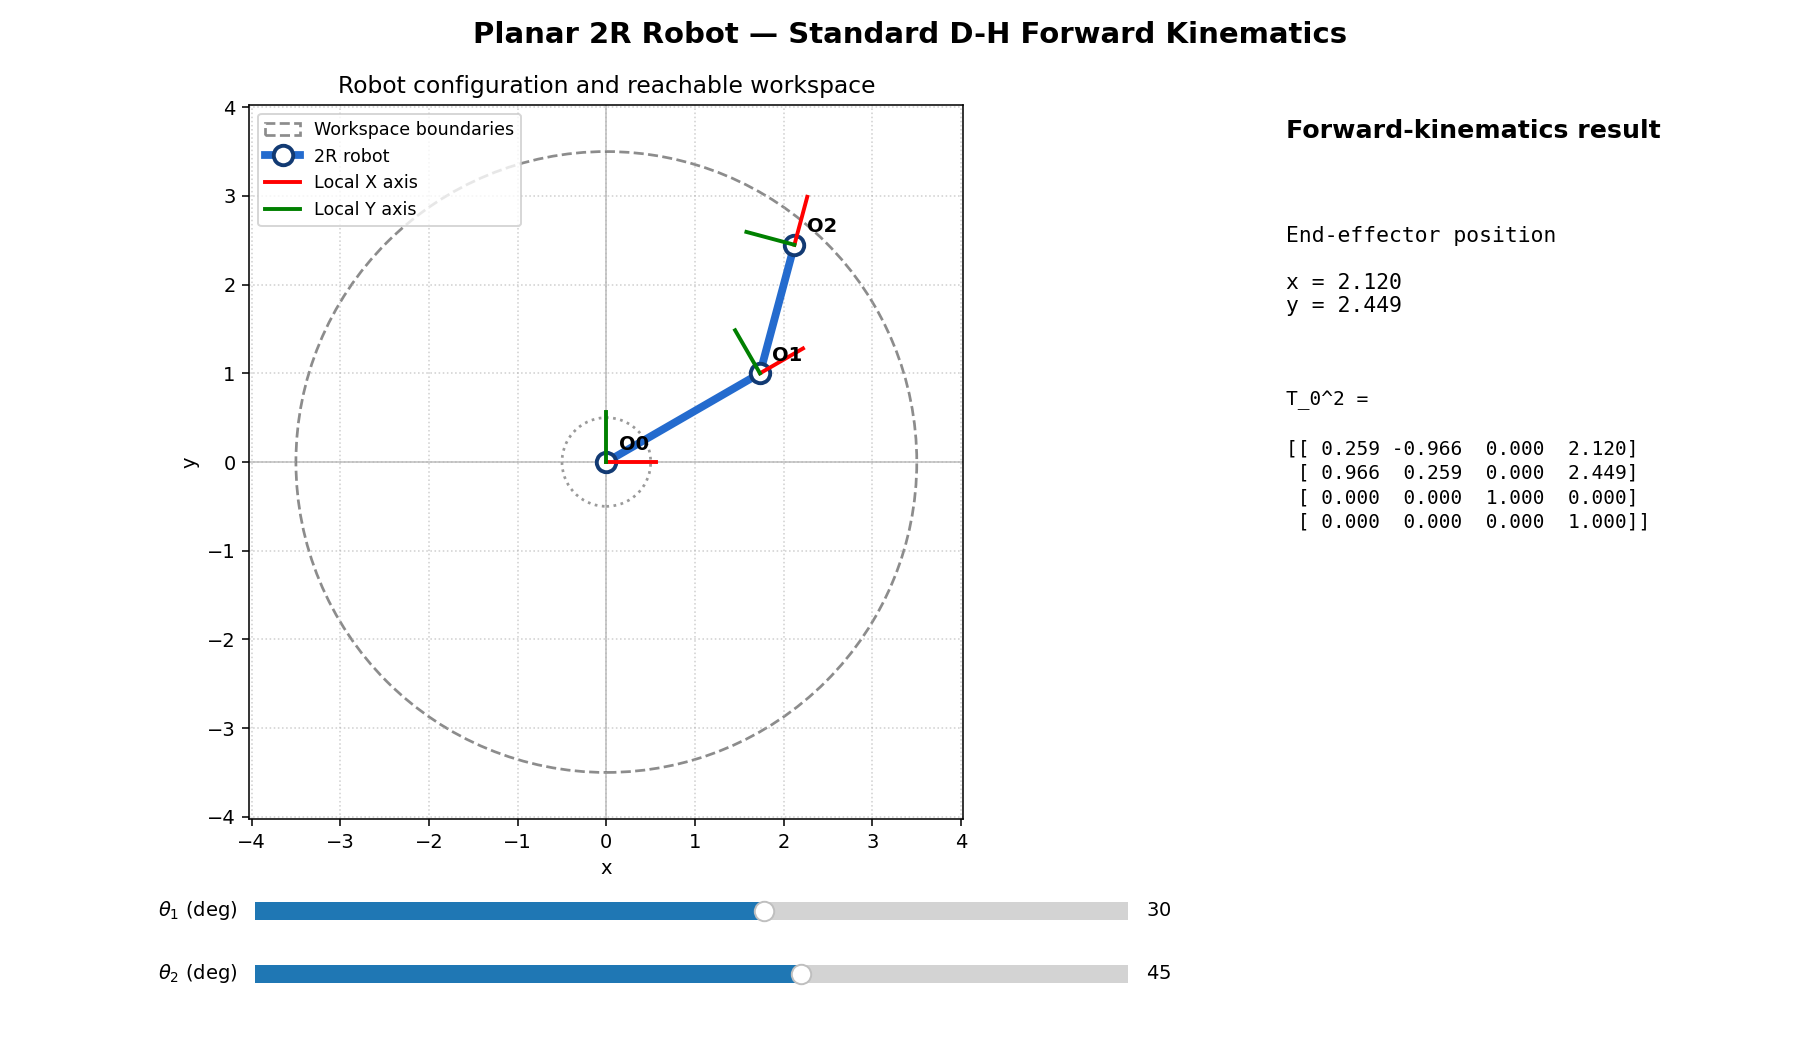
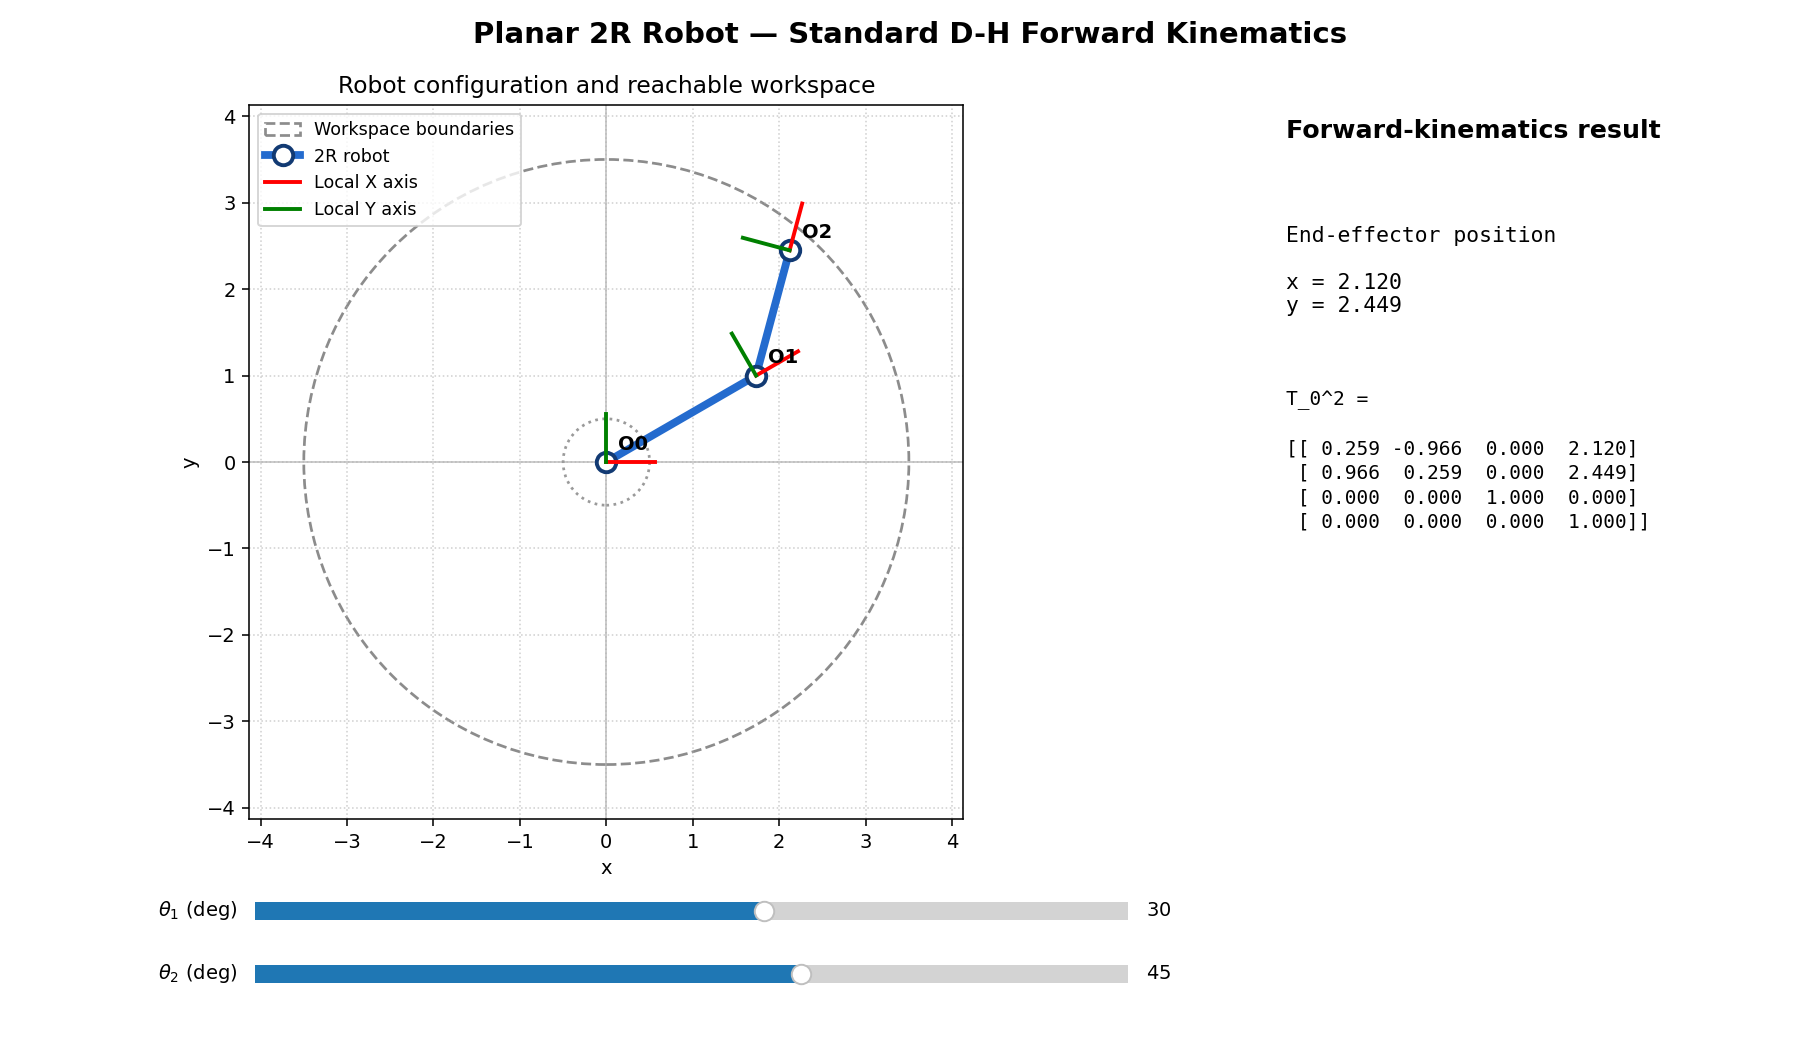
test: cover general DH and full extension

diff --git a/test_planar_2r_simulator.py b/test_planar_2r_simulator.py
@@ -53,6 +53,19 @@ class TestKinematics(SimulatorTestCase):
         )
         np.testing.assert_allclose(actual, expected, atol=1e-12)
 
+    def test_general_dh_transform_with_nonzero_twist_and_offset(self):
+        dh_transform = self.require_attr("dh_transform")
+        actual = dh_transform(np.pi / 2.0, 2.0, np.pi / 2.0, 3.0)
+        expected = np.array(
+            [
+                [0.0, 0.0, 1.0, 0.0],
+                [1.0, 0.0, 0.0, 2.0],
+                [0.0, 1.0, 0.0, 3.0],
+                [0.0, 0.0, 0.0, 1.0],
+            ]
+        )
+        np.testing.assert_allclose(actual, expected, atol=1e-12)
+
     def test_reference_forward_kinematics_poses(self):
         forward_kinematics = self.require_attr("forward_kinematics")
         cases = [
@@ -157,6 +170,23 @@ class TestSimulatorGUI(SimulatorTestCase):
         simulator.fig.savefig(output, format="png", dpi=100)
 
         self.assertGreater(len(output.getvalue()), 10_000)
+
+    def test_full_extension_keeps_endpoint_frame_inside_plot_limits(self):
+        simulator_cls = self.require_attr("Planar2RSimulator")
+        simulator = simulator_cls()
+
+        simulator.theta1_slider.set_val(0.0)
+        simulator.theta2_slider.set_val(0.0)
+        o2_x_line = simulator.frame_lines[2][0]
+        self.assertGreaterEqual(
+            simulator.ax.get_xlim()[1], max(o2_x_line.get_xdata())
+        )
+
+        simulator.theta1_slider.set_val(90.0)
+        o2_x_line = simulator.frame_lines[2][0]
+        self.assertGreaterEqual(
+            simulator.ax.get_ylim()[1], max(o2_x_line.get_ydata())
+        )
 
 
 if __name__ == "__main__":

diff --git a/planar_2r_simulator.py b/planar_2r_simulator.py
@@ -189,7 +189,8 @@ class Planar2RSimulator:
         self._update()
 
     def _configure_robot_axes(self):
-        limit = 1.15 * self.reach
+        # Include the O2 coordinate-frame arrows at fully extended poses.
+        limit = self.reach + self.frame_axis_length + 0.02 * self.reach
         self.ax.set_xlim(-limit, limit)
         self.ax.set_ylim(-limit, limit)
         self.ax.set_aspect("equal", adjustable="box")
